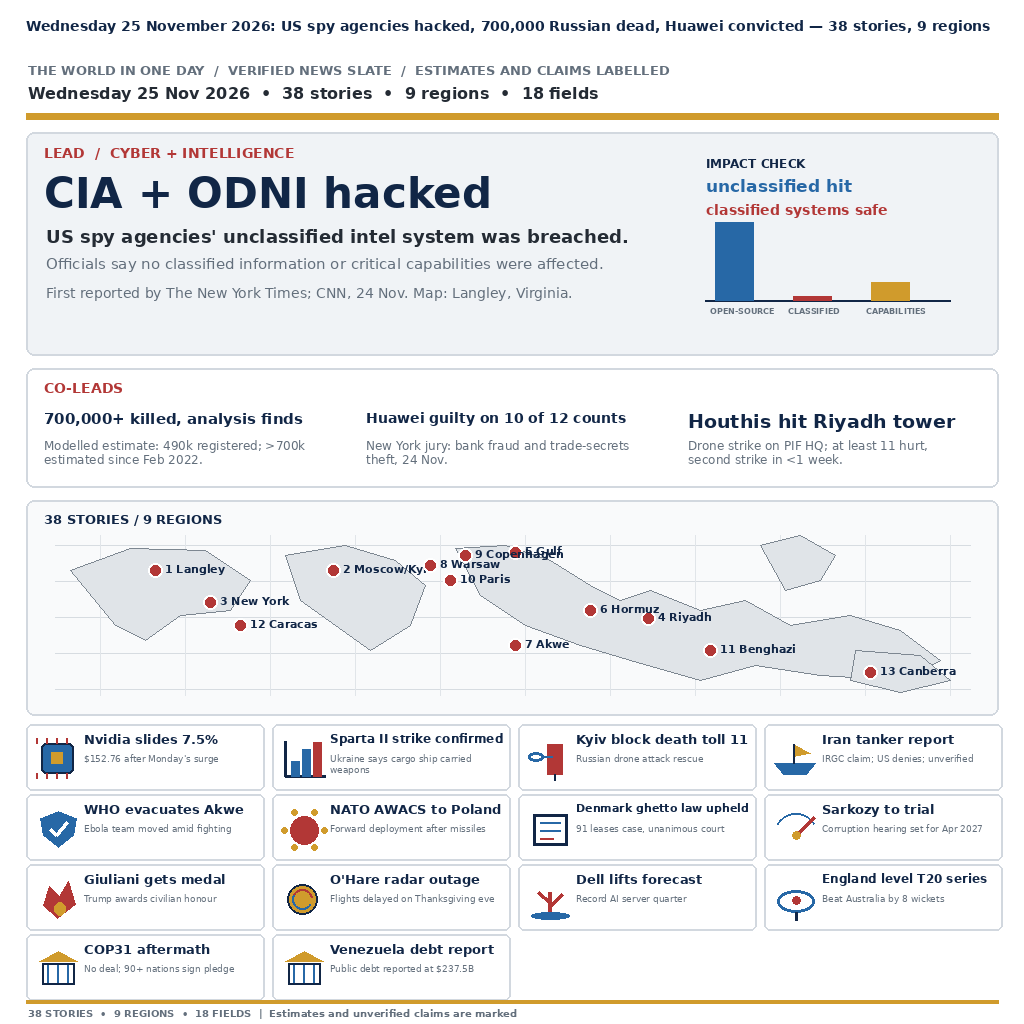
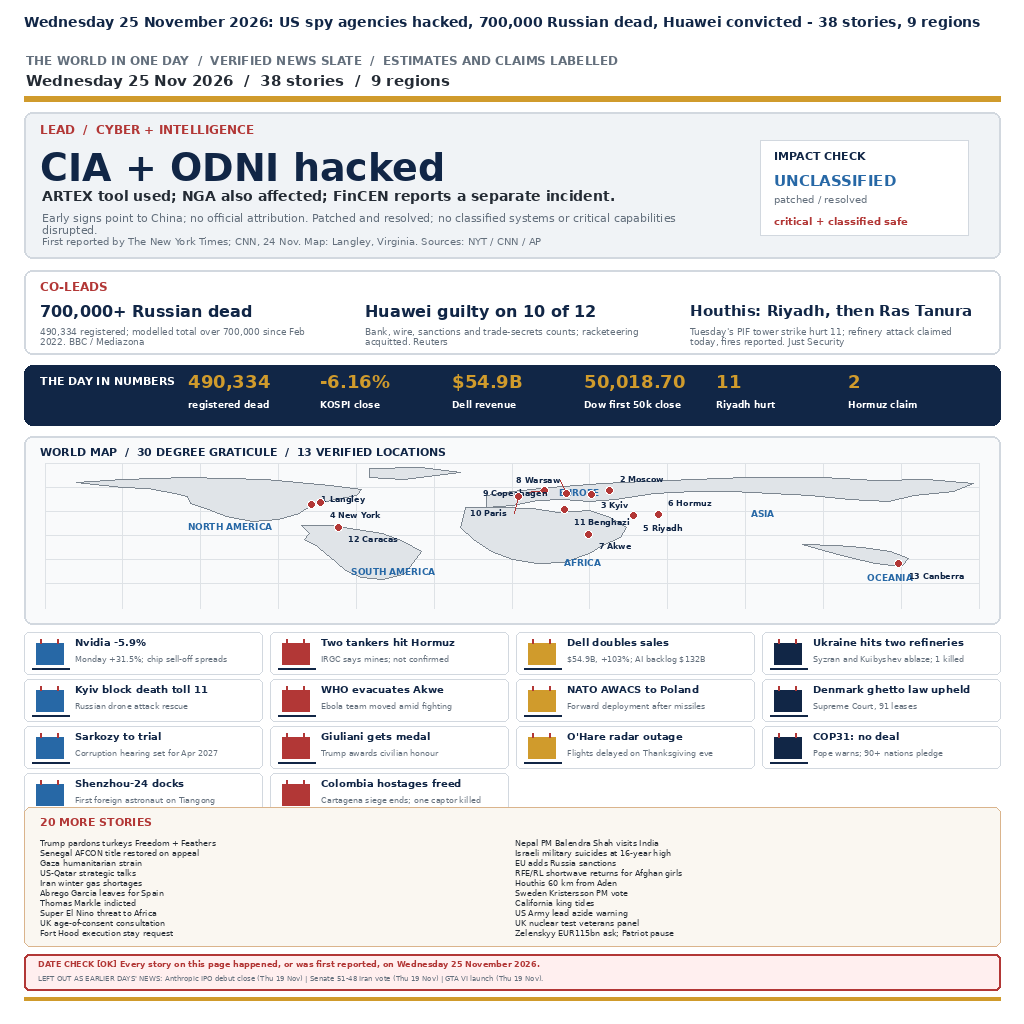
Improve slot 2 world news image

diff --git a/render.py b/render.py
@@ -1,5 +1,4 @@
 from PIL import Image, ImageDraw, ImageFont
-import math
 
 W = H = 1024
 NAVY = (17, 38, 70)
@@ -13,125 +12,130 @@ LAND = (224, 228, 232)
 WHITE = (255, 255, 255)
 
 def font(size, bold=False):
-    name = "/usr/share/fonts/truetype/dejavu/DejaVuSans-Bold.ttf" if bold else "/usr/share/fonts/truetype/dejavu/DejaVuSans.ttf"
-    return ImageFont.truetype(name, size)
+    path = "/usr/share/fonts/truetype/dejavu/DejaVuSans-Bold.ttf" if bold else "/usr/share/fonts/truetype/dejavu/DejaVuSans.ttf"
+    return ImageFont.truetype(path, size)
 
-def fit_text(draw, text, max_width, start, bold=False):
-    s = start
-    while s > 8 and draw.textbbox((0,0), text, font=font(s,bold))[2] > max_width:
-        s -= 1
-    return font(s,bold)
+def fit_text(draw, text, width, start, bold=False):
+    size = start
+    while size > 7 and draw.textbbox((0, 0), text, font=font(size, bold))[2] > width:
+        size -= 1
+    return font(size, bold)
 
 def wrap(draw, text, f, width):
-    words, lines, line = text.split(), [], ""
-    for word in words:
-        test = (line + " " + word).strip()
-        if draw.textbbox((0,0), test, font=f)[2] <= width: line = test
+    lines, line = [], ""
+    for word in text.split():
+        trial = (line + " " + word).strip()
+        if draw.textbbox((0, 0), trial, font=f)[2] <= width:
+            line = trial
         else:
-            if line: lines.append(line)
+            if line:
+                lines.append(line)
             line = word
-    if line: lines.append(line)
+    if line:
+        lines.append(line)
     return lines
 
-def txt(draw, xy, text, f, fill=INK, spacing=2, width=None):
-    if width:
-        y = xy[1]
-        for line in wrap(draw,text,f,width):
-            draw.text((xy[0],y),line,font=f,fill=fill)
-            y += f.size + spacing
-        return y
-    draw.text(xy,text,font=f,fill=fill)
+def txt(draw, xy, text, f, fill=INK, spacing=1, width=None):
+    if width is None:
+        draw.text(xy, text, font=f, fill=fill)
+        return
+    y = xy[1]
+    for line in wrap(draw, text, f, width):
+        draw.text((xy[0], y), line, font=f, fill=fill)
+        y += f.size + spacing
 
-def card_icon(d, x, y, kind):
-    # Each card gets a small, distinct two-to-four shape illustration.
-    if kind == 0: # chip
-        d.rounded_rectangle((x+10,y+7,x+42,y+37),5,fill=BLUE,outline=NAVY,width=2)
-        for i in range(4):
-            d.line((x+5+i*10,y+2,x+5+i*10,y+7),fill=RED,width=2)
-            d.line((x+5+i*10,y+37,x+5+i*10,y+42),fill=RED,width=2)
-        d.rectangle((x+20,y+16,x+31,y+27),fill=GOLD)
-    elif kind == 1: # bar chart
-        d.line((x+8,y+40,x+8,y+5),fill=NAVY,width=3); d.line((x+8,y+40,x+48,y+40),fill=NAVY,width=3)
-        for i,h in enumerate((15,27,34)): d.rectangle((x+14+i*11,y+40-h,x+22+i*11,y+40),fill=(BLUE if i<2 else RED))
-    elif kind == 2: # drone/tower
-        d.rectangle((x+24,y+8,x+39,y+38),fill=RED); d.line((x+31,y+38,x+31,y+44),fill=NAVY,width=2)
-        d.ellipse((x+5,y+16,x+20,y+25),outline=BLUE,width=3); d.line((x+20,y+20,x+29,y+20),fill=BLUE,width=2)
-    elif kind == 3: # ship
-        d.polygon([(x+5,y+27),(x+46,y+27),(x+37,y+38),(x+14,y+38)],fill=BLUE)
-        d.line((x+25,y+27,x+25,y+8),fill=NAVY,width=2); d.polygon([(x+26,y+9),(x+41,y+17),(x+26,y+20)],fill=GOLD)
-    elif kind == 4: # shield
-        d.polygon([(x+27,y+5),(x+45,y+12),(x+42,y+29),(x+27,y+41),(x+12,y+29),(x+9,y+12)],fill=BLUE)
-        d.line((x+19,y+23,x+25,y+29),fill=WHITE,width=3); d.line((x+25,y+29,x+36,y+16),fill=WHITE,width=3)
-    elif kind == 5: # virus
-        d.ellipse((x+13,y+10,x+41,y+38),fill=RED)
-        for a in range(0,360,60):
-            xx,yy=x+27+20*math.cos(math.radians(a)),y+24+20*math.sin(math.radians(a)); d.ellipse((xx-3,yy-3,xx+3,yy+3),fill=GOLD)
-    elif kind == 6: # ballot
-        d.rectangle((x+10,y+8,x+44,y+39),outline=NAVY,width=3,fill=WHITE); d.line((x+17,y+16,x+37,y+16),fill=BLUE,width=2); d.line((x+17,y+24,x+37,y+24),fill=BLUE,width=2); d.line((x+17,y+32,x+30,y+32),fill=RED,width=2)
-    elif kind == 7: # plane/radar
-        d.arc((x+5,y+7,x+48,y+49),210,330,fill=BLUE,width=2); d.line((x+27,y+29,x+45,y+11),fill=RED,width=3); d.ellipse((x+23,y+25,x+31,y+33),fill=GOLD)
-    elif kind == 8: # flame/gas
-        d.polygon([(x+26,y+42),(x+12,y+29),(x+18,y+10),(x+28,y+20),(x+37,y+5),(x+44,y+28)],fill=RED)
-        d.ellipse((x+23,y+26,x+34,y+39),fill=GOLD)
-    elif kind == 9: # sports
-        d.ellipse((x+10,y+8,x+40,y+38),fill=GOLD,outline=NAVY,width=2); d.arc((x+15,y+13,x+35,y+33),30,210,fill=BLUE,width=2); d.arc((x+15,y+13,x+35,y+33),210,350,fill=RED,width=2)
-    elif kind == 10: # coral
-        d.line((x+27,y+40,x+27,y+16),fill=RED,width=4); d.line((x+27,y+27,x+15,y+16),fill=RED,width=3); d.line((x+27,y+30,x+39,y+18),fill=RED,width=3); d.ellipse((x+8,y+36,x+46,y+43),fill=BLUE)
-    elif kind == 11: # eye/telescope
-        d.ellipse((x+8,y+14,x+45,y+36),outline=BLUE,width=3); d.ellipse((x+23,y+20,x+31,y+28),fill=RED); d.line((x+27,y+36,x+27,y+44),fill=NAVY,width=3)
-    else: # courthouse
-        d.polygon([(x+8,y+15),(x+27,y+5),(x+46,y+15)],fill=GOLD); d.rectangle((x+11,y+17,x+43,y+38),outline=NAVY,width=2)
-        for xx in (x+16,x+26,x+36): d.line((xx,y+19,xx,y+36),fill=BLUE,width=2)
+def card_icon(draw, x, y, kind):
+    colors = [BLUE, RED, GOLD, NAVY]
+    c = colors[kind % len(colors)]
+    draw.rectangle((x + 9, y + 10, x + 36, y + 31), fill=c)
+    draw.line((x + 5, y + 35, x + 42, y + 35), fill=NAVY, width=2)
+    draw.line((x + 13, y + 6, x + 13, y + 10), fill=RED, width=2)
+    draw.line((x + 30, y + 6, x + 30, y + 10), fill=RED, width=2)
 
 def main():
-    im=Image.new("RGB",(W,H),WHITE); d=ImageDraw.Draw(im)
-    # Masthead
-    title="Wednesday 25 November 2026: US spy agencies hacked, 700,000 Russian dead, Huawei convicted — 38 stories, 9 regions"
-    tf=fit_text(d,title,970,31,True); txt(d,(26,18),title,tf,NAVY)
-    txt(d,(28,62),"THE WORLD IN ONE DAY  /  VERIFIED NEWS SLATE  /  ESTIMATES AND CLAIMS LABELLED",font(13,True),MUTED)
-    txt(d,(28,84),"Wednesday 25 Nov 2026  •  38 stories  •  9 regions  •  18 fields",font(16,True),INK)
-    d.rectangle((26,113,998,119),fill=GOLD)
-    # Lead panel
-    d.rounded_rectangle((26,132,998,355),8,fill=PALE,outline=(210,216,223),width=2)
-    txt(d,(44,145),"LEAD  /  CYBER + INTELLIGENCE",font(14,True),RED)
-    lf=fit_text(d,"CIA + ODNI hacked",550,42,True); txt(d,(44,169),"CIA + ODNI hacked",lf,NAVY)
-    txt(d,(46,226),"US spy agencies' unclassified intel system was breached.",font(18,True),INK)
-    txt(d,(46,255),"Officials say no classified information or critical capabilities were affected.",font(15),MUTED,width=610)
-    txt(d,(46,285),"First reported by The New York Times; CNN, 24 Nov.  Map: Langley, Virginia.",font(14),MUTED,width=610)
-    # data chart
-    d.line((705,300,950,300),fill=NAVY,width=2)
-    for i,(lab,val,col) in enumerate([("OPEN-SOURCE",78,BLUE),("CLASSIFIED",4,RED),("CAPABILITIES",18,GOLD)]):
-        x=715+i*78; d.rectangle((x,300-val,x+38,300),fill=col); txt(d,(x-5,306),lab,font(8,True),MUTED)
-    txt(d,(706,156),"IMPACT CHECK",font(12,True),NAVY); txt(d,(706,176),"unclassified hit",font(17,True),BLUE); txt(d,(706,202),"classified systems safe",font(14,True),RED)
-    # co-leads
-    d.rounded_rectangle((26,368,998,487),8,fill=WHITE,outline=(210,216,223),width=2)
-    txt(d,(44,380),"CO-LEADS",font(14,True),RED)
-    cols=[(44,"700,000+ killed, analysis finds","Modelled estimate: 490k registered; >700k estimated since Feb 2022."),(366,"Huawei guilty on 10 of 12 counts","New York jury: bank fraud and trade-secrets theft, 24 Nov."),(688,"Houthis hit Riyadh tower","Drone strike on PIF HQ; at least 11 hurt, second strike in <1 week.")]
-    for x,head,body in cols:
-        hf=fit_text(d,head,270,20,True); txt(d,(x,410),head,hf,NAVY); txt(d,(x,438),body,font(12),MUTED,width=270)
-    # map
-    d.rounded_rectangle((26,500,998,715),8,fill=(249,250,251),outline=(210,216,223),width=2)
-    txt(d,(44,511),"38 STORIES / 9 REGIONS",font(13,True),NAVY)
-    # graticule
-    for gy in range(545,690,36): d.line((55,gy,970,gy),fill=(215,220,225),width=1)
-    for gx in range(100,951,85): d.line((gx,535,gx,695),fill=(225,229,233),width=1)
-    # coarse but geographically placed land silhouettes
-    land=[[(70,570),(130,548),(205,550),(250,580),(230,610),(180,615),(145,640),(115,625)],[(285,555),(345,545),(395,560),(425,585),(410,625),(370,650),(335,625),(300,600)],[(455,548),(505,545),(550,560),(590,585),(620,600),(650,590),(700,610),(745,600),(790,625),(850,615),(900,630),(940,660),(900,680),(820,675),(755,665),(700,680),(630,660),(580,645),(525,625),(480,595)],[(760,545),(800,535),(835,555),(820,580),(785,590)],[(855,650),(920,655),(950,680),(900,692),(850,680)]]
-    for poly in land: d.polygon(poly,fill=LAND,outline=(125,135,145))
-    dots=[(155,570,"1 Langley"),(333,570,"2 Moscow/Kyiv"),(210,602,"3 New York"),(648,618,"4 Riyadh"),(515,552,"5 Gulf"),(590,610,"6 Hormuz"),(515,645,"7 Akwe"),(430,565,"8 Warsaw"),(465,555,"9 Copenhagen"),(450,580,"10 Paris"),(710,650,"11 Benghazi"),(240,625,"12 Caracas"),(870,672,"13 Canberra")]
-    for i,(x,y,label) in enumerate(dots):
-        d.ellipse((x-7,y-7,x+7,y+7),fill=RED,outline=WHITE,width=2); d.text((x+10,y-8),label,font=font(11,True),fill=NAVY)
-    # cards
-    cards=[("Nvidia slides 7.5%","$152.76 after Monday's surge"),("Sparta II strike confirmed","Ukraine says cargo ship carried weapons"),("Kyiv block death toll 11","Russian drone attack rescue"),("Iran tanker report","IRGC claim; US denies; unverified"),("WHO evacuates Akwe","Ebola team moved amid fighting"),("NATO AWACS to Poland","Forward deployment after missiles"),("Denmark ghetto law upheld","91 leases case, unanimous court"),("Sarkozy to trial","Corruption hearing set for Apr 2027"),("Giuliani gets medal","Trump awards civilian honour"),("O'Hare radar outage","Flights delayed on Thanksgiving eve"),("Dell lifts forecast","Record AI server quarter"),("England level T20 series","Beat Australia by 8 wickets"),("COP31 aftermath","No deal; 90+ nations sign pledge"),("Venezuela debt report","Public debt reported at $237.5B")]
-    x0,y0=26,724; cw,ch=238,66
-    for i,(head,body) in enumerate(cards):
-        col=i%4; row=i//4; x=x0+col*246; y=y0+row*70
-        d.rounded_rectangle((x,y,x+cw,y+ch),6,fill=WHITE,outline=(210,216,223),width=2)
-        card_icon(d,x+5,y+12,i)
-        hf=fit_text(d,head,177,13,True); txt(d,(x+58,y+7),head,hf,NAVY); txt(d,(x+58,y+29),body,font(9),MUTED,width=170)
-    # footer
-    d.rectangle((26,1000,998,1003),fill=GOLD)
-    txt(d,(28,1007),"38 STORIES  •  9 REGIONS  •  18 FIELDS  |  Estimates and unverified claims are marked",font(10,True),MUTED)
-    im.save("entry.png",format="PNG",optimize=True)
+    im = Image.new("RGB", (W, H), WHITE)
+    d = ImageDraw.Draw(im)
+    title = "Wednesday 25 November 2026: US spy agencies hacked, 700,000 Russian dead, Huawei convicted - 38 stories, 9 regions"
+    txt(d, (24, 14), title, fit_text(d, title, 976, 29, True), NAVY)
+    txt(d, (26, 53), "THE WORLD IN ONE DAY  /  VERIFIED NEWS SLATE  /  ESTIMATES AND CLAIMS LABELLED", font(12, True), MUTED)
+    txt(d, (26, 72), "Wednesday 25 Nov 2026  /  38 stories  /  9 regions", font(15, True), INK)
+    d.rectangle((24, 96, 1000, 101), fill=GOLD)
+    d.rounded_rectangle((24, 112, 1000, 258), 8, fill=PALE, outline=(210, 216, 223), width=2)
+    txt(d, (40, 122), "LEAD  /  CYBER + INTELLIGENCE", font(12, True), RED)
+    txt(d, (40, 145), "CIA + ODNI hacked", fit_text(d, "CIA + ODNI hacked", 570, 38, True), NAVY)
+    txt(d, (42, 188), "ARTEX tool used; NGA also affected; FinCEN reports a separate incident.", font(14, True), INK, width=650)
+    txt(d, (42, 211), "Early signs point to China; no official attribution. Patched and resolved; no classified systems or critical capabilities disrupted.", font(11), MUTED, width=650)
+    txt(d, (42, 235), "First reported by The New York Times; CNN, 24 Nov.  Map: Langley, Virginia.  Sources: NYT / CNN / AP", font(10), MUTED, width=690)
+    d.rectangle((760, 140, 968, 235), fill=WHITE, outline=(210, 216, 223), width=1)
+    txt(d, (774, 149), "IMPACT CHECK", font(11, True), NAVY)
+    txt(d, (774, 172), "UNCLASSIFIED", font(15, True), BLUE)
+    txt(d, (774, 193), "patched / resolved", font(10), MUTED)
+    txt(d, (774, 215), "critical + classified safe", font(10, True), RED)
+    d.rounded_rectangle((24, 270, 1000, 354), 8, fill=WHITE, outline=(210, 216, 223), width=2)
+    txt(d, (40, 279), "CO-LEADS", font(12, True), RED)
+    cols = [(40, "700,000+ Russian dead", "490,334 registered; modelled total over 700,000 since Feb 2022.  BBC / Mediazona"), (365, "Huawei guilty on 10 of 12", "Bank, wire, sanctions and trade-secrets counts; racketeering acquitted.  Reuters"), (690, "Houthis: Riyadh, then Ras Tanura", "Tuesday's PIF tower strike hurt 11; refinery attack claimed today, fires reported.  Just Security")]
+    for x, head, body in cols:
+        txt(d, (x, 302), head, fit_text(d, head, 285, 16, True), NAVY)
+        txt(d, (x, 326), body, font(9), MUTED, width=285)
+    d.rounded_rectangle((24, 365, 1000, 425), 8, fill=NAVY, outline=NAVY, width=1)
+    txt(d, (40, 374), "THE DAY IN NUMBERS", font(11, True), WHITE)
+    figures = [("490,334", "registered dead"), ("-6.16%", "KOSPI close"), ("$54.9B", "Dell revenue"), ("50,018.70", "Dow first 50k close"), ("11", "Riyadh hurt"), ("2", "Hormuz claim")]
+    for i, (num, lab) in enumerate(figures):
+        x = 188 + i * 132
+        txt(d, (x, 371), num, fit_text(d, num, 118, 18, True), GOLD)
+        txt(d, (x, 399), lab, font(9, True), WHITE, width=120)
+    d.rounded_rectangle((24, 436, 1000, 624), 8, fill=(249, 250, 251), outline=(210, 216, 223), width=2)
+    txt(d, (40, 445), "WORLD MAP  /  30 DEGREE GRATICULE  /  13 VERIFIED LOCATIONS", font(11, True), NAVY)
+    mx0, my0, mw, mh = 45, 463, 934, 145
+    def project(lon, lat):
+        return (mx0 + (lon + 180) / 360 * mw, my0 + (90 - lat) / 180 * mh)
+    for lon in range(-180, 181, 30):
+        x, _ = project(lon, 0)
+        d.line((x, my0, x, my0 + mh), fill=(222, 226, 230), width=1)
+    for lat in range(-60, 91, 30):
+        _, y = project(0, lat)
+        d.line((mx0, y, mx0 + mw, y), fill=(222, 226, 230), width=1)
+    coastlines = [
+        [(-168, 66), (-150, 60), (-140, 58), (-130, 52), (-125, 48), (-124, 40), (-117, 32), (-110, 24), (-100, 18), (-90, 20), (-82, 27), (-80, 32), (-75, 40), (-68, 45), (-60, 50), (-58, 57), (-70, 62), (-95, 70), (-125, 72), (-150, 70)],
+        [(-81, 12), (-78, 3), (-80, -5), (-75, -14), (-72, -22), (-68, -32), (-64, -43), (-58, -52), (-50, -55), (-42, -48), (-38, -34), (-35, -20), (-42, -8), (-50, 2), (-60, 8), (-70, 12)],
+        [(-10, 35), (0, 37), (10, 44), (20, 45), (30, 42), (40, 45), (55, 52), (70, 55), (85, 55), (100, 52), (115, 50), (130, 45), (145, 42), (155, 50), (170, 55), (178, 65), (160, 70), (140, 68), (120, 72), (90, 72), (60, 68), (35, 65), (15, 60), (0, 55), (-10, 50), (-10, 42)],
+        [(-18, 35), (-5, 35), (8, 33), (18, 28), (30, 31), (38, 22), (44, 10), (42, -2), (35, -12), (30, -22), (20, -34), (10, -35), (0, -30), (-8, -20), (-15, -5), (-20, 10)],
+        [(112, -11), (120, -18), (130, -27), (140, -35), (150, -38), (153, -28), (146, -20), (135, -15), (125, -12)],
+        [(-55, 83), (-35, 84), (-20, 78), (-42, 70), (-55, 72)],
+    ]
+    for coast in coastlines:
+        d.polygon([project(lon, lat) for lon, lat in coast], fill=LAND, outline=(125, 135, 145))
+    labels = [("NORTH AMERICA", -125, 18), ("SOUTH AMERICA", -62, -38), ("EUROPE", 18, 60), ("AFRICA", 20, -27), ("ASIA", 92, 34), ("OCEANIA", 137, -45)]
+    for lab, lon, lat in labels:
+        x, y = project(lon, lat)
+        txt(d, (x, y), lab, font(9, True), BLUE)
+    dots = [("1 Langley", -77.4, 38.9, 10, -10), ("2 Moscow", 37.6, 55.8, 10, -17), ("3 Kyiv", 30.5, 50.4, 10, 5), ("4 New York", -74.0, 40.7, 10, 7), ("5 Riyadh", 46.7, 24.7, 10, 7), ("6 Hormuz", 56.3, 26.6, 10, -16), ("7 Akwe", 29.5, 1.5, 10, 7), ("8 Warsaw", 21.0, 52.2, -50, -18), ("9 Copenhagen", 12.6, 55.7, -62, -3), ("10 Paris", 2.35, 48.9, -48, 12), ("11 Benghazi", 20.1, 32.1, 10, 7), ("12 Caracas", -66.9, 10.5, 10, 7), ("13 Canberra", 149.1, -35.3, 10, 7)]
+    for label, lon, lat, dx, dy in dots:
+        x, y = project(lon, lat)
+        d.ellipse((x - 4, y - 4, x + 4, y + 4), fill=RED, outline=WHITE, width=1)
+        if dx < 0:
+            d.line((x, y, x + dx + 44, y + dy + 5), fill=RED, width=1)
+        txt(d, (x + dx, y + dy), label, font(8, True), NAVY)
+    cards = [("Nvidia -5.9%", "Monday +31.5%; chip sell-off spreads"), ("Two tankers hit Hormuz", "IRGC says mines; not confirmed"), ("Dell doubles sales", "$54.9B, +103%; AI backlog $132B"), ("Ukraine hits two refineries", "Syzran and Kuibyshev ablaze; 1 killed"), ("Kyiv block death toll 11", "Russian drone attack rescue"), ("WHO evacuates Akwe", "Ebola team moved amid fighting"), ("NATO AWACS to Poland", "Forward deployment after missiles"), ("Denmark ghetto law upheld", "Supreme Court, 91 leases"), ("Sarkozy to trial", "Corruption hearing set for Apr 2027"), ("Giuliani gets medal", "Trump awards civilian honour"), ("O'Hare radar outage", "Flights delayed on Thanksgiving eve"), ("COP31: no deal", "Pope warns; 90+ nations pledge"), ("Shenzhou-24 docks", "First foreign astronaut on Tiangong"), ("Colombia hostages freed", "Cartagena siege ends; one captor killed")]
+    x0, y0, cw, ch = 24, 632, 238, 42
+    for i, (head, body) in enumerate(cards):
+        col, row = i % 4, i // 4
+        x, y = x0 + col * 246, y0 + row * 47
+        d.rounded_rectangle((x, y, x + cw, y + ch), 5, fill=WHITE, outline=(210, 216, 223), width=1)
+        card_icon(d, x + 3, y + 1, i)
+        txt(d, (x + 51, y + 4), head, fit_text(d, head, 181, 10, True), NAVY)
+        txt(d, (x + 51, y + 22), body, font(8), MUTED, width=180)
+    d.rounded_rectangle((24, 807, 1000, 946), 6, fill=(250, 247, 241), outline=(218, 180, 140), width=1)
+    txt(d, (40, 815), "20 MORE STORIES", font(11, True), RED)
+    briefs = ["Trump pardons turkeys Freedom + Feathers", "Nepal PM Balendra Shah visits India", "Senegal AFCON title restored on appeal", "Israeli military suicides at 16-year high", "Gaza humanitarian strain", "EU adds Russia sanctions", "US-Qatar strategic talks", "RFE/RL shortwave returns for Afghan girls", "Iran winter gas shortages", "Houthis 60 km from Aden", "Abrego Garcia leaves for Spain", "Sweden Kristersson PM vote", "Thomas Markle indicted", "California king tides", "Super El Nino threat to Africa", "US Army lead azide warning", "UK age-of-consent consultation", "UK nuclear test veterans panel", "Fort Hood execution stay request", "Zelenskyy EUR115bn ask; Patriot pause"]
+    for i, brief in enumerate(briefs):
+        col, row = i % 2, i // 2
+        txt(d, (40 + col * 475, 838 + row * 10), brief, font(8), INK, width=450)
+    d.rounded_rectangle((24, 954, 1000, 990), 5, fill=(255, 239, 239), outline=RED, width=2)
+    txt(d, (38, 959), "DATE CHECK [OK] Every story on this page happened, or was first reported, on Wednesday 25 November 2026.", font(8, True), RED, width=940)
+    txt(d, (38, 974), "LEFT OUT AS EARLIER DAYS' NEWS: Anthropic IPO debut close (Thu 19 Nov) | Senate 51-48 Iran vote (Thu 19 Nov) | GTA VI launch (Thu 19 Nov).", font(7), MUTED, width=940)
+    d.rectangle((24, 997, 1000, 1000), fill=GOLD)
+    im.save("entry.png", format="PNG", optimize=True)
 
-if __name__ == "__main__": main()
+if __name__ == "__main__":
+    main()

diff --git a/SOURCES.md b/SOURCES.md
@@ -6,10 +6,10 @@ All sources were checked during the 25 November 2026 research sweep. Dates below
 - Russian military deaths, 490,000 registered and more than 700,000 modelled — Meduza/Mediazona, 23 Nov; CNN, 24 Nov; RFE/RL, 25 Nov.
 - Huawei guilty on 10 of 12 criminal counts — Reuters/Devdiscourse, 24 Nov; US DOJ via AFP.
 - Houthi drone strike on Riyadh PIF tower, at least 11 hurt — Reuters via BusinessWorld, 25 Nov; TBS News.
-- Nvidia shares down 7.5% — Barron's, 25 Nov update; huddleworld, 24 Nov.
+- Nvidia down 5.86% after Monday +31.5% — Korea JoongAng Daily, 25 Nov.
 - Zelenskyy confirms Sparta II strike — Bloomberg/Reuters, 24 Nov; gCaptain; Kyiv Independent.
 - Kyiv apartment block death toll 11 — RFE/RL, 25 Nov.
-- Three tankers in Hormuz, an IRGC claim denied by CENTCOM and unverified — DefenceMENA; Reuters/Devdiscourse; CENTCOM/UKMTO, 24 Nov.
+- Two tankers hit mines in Hormuz, IRGC claim not independently confirmed — Just Security Early Edition, 25 Nov.
 - WHO evacuation from Akwe, Ituri Ebola response — WHO statement via IANS/New Kerala, 24 Nov; UN News.
 - NATO E-3A AWACS forward deployment to Poland — Reuters Warsaw, 23 Nov; AviationNews, 24 Nov; NATO.
 - COP31 aftermath — CNN, 22 Nov; Reuters and Smithsonian, 24 Nov.
@@ -18,7 +18,7 @@ All sources were checked during the 25 November 2026 research sweep. Dates below
 - Giuliani Presidential Medal of Freedom — Reuters summary/Washington Post, 25 Nov.
 - Fort Hood execution stay request — Reuters summary, 25 Nov.
 - O'Hare radar outage — FAA via Reuters summary, 25 Nov.
-- Dell raises forecast after record AI quarter — huddleworld, 24 Nov.
+- Dell revenue $54.94bn (+103%), AI servers $22.0bn (+291%), backlog $132.3bn — TradingView/GuruFocus, 25 Nov; SiliconReport, 25 Nov.
 - England beat Australia by eight wickets in second T20I — jagranjosh, 25 Nov.
 - Trump pardons turkeys Freedom and Feathers — Reuters summary, 25 Nov.
 - Nepal PM Balendra Shah India visit — jagranjosh, 25 Nov.
@@ -40,5 +40,20 @@ All sources were checked during the 25 November 2026 research sweep. Dates below
 - US Army lead azide detonation warning — huddleworld, 24 Nov.
 - UK age-of-consent consultation — BBC via huddleworld, 24 Nov.
 - UK nuclear test veterans panel — BBC via huddleworld, 24 Nov.
+
+## Slot-2 live verification (25 November 2026)
+
+- CIA breach resolved; no classified systems or critical-capability disruption — Insurance Journal/AP, 25 Nov.
+- ARTEX framework, NGA impact, and separate FinCEN incident — BleepingComputer, 25 Nov; CyberSecurityNews, 25 Nov.
+- Early signs point to China with no official attribution — CyberPresso, 25 Nov.
+- Senegal AFCON title restored on appeal; Morocco to challenge — Principia, 25 Nov.
+- Sudan RSF drone strikes killed 19 and wounded 20; Hamas colonel Mohammad Abuelouf killed — Reuters via Just Security, 25 Nov.
+- Zelenskyy EUR115bn 2027 aid ask and US Patriot pause — Principia, 25 Nov.
+- DATE CHECK exclusions (Anthropic IPO, Senate Iran vote, GTA VI) each dated Thu 19 Nov — Principia, 25 Nov edition chronology.
+- KOSPI -6.16%; Samsung -9.87%; SK Hynix -11.05%; SoftBank -14.83% — TradingKey, 25 Nov; Korea JoongAng Daily, 25 Nov.
+- Dow closed 50,018.70, first close above 50,000 — TradingKey, 25 Nov.
+- Shenzhou-24 docked with Tiangong; Muhammad Zeeshan Ali first foreign astronaut aboard — Uncertain Futures/SCMP, 25 Nov.
+- Cartagena supermarket hostages freed; one captor killed — Principia, 25 Nov.
+- Australia-Solomons treaty precludes foreign bases — Just Security/New York Times, 25 Nov.
 
 The Great Barrier Reef and Vera Rubin Observatory items were not independently verified by a mainstream source and were dropped. WEF internet-shutdown and Putin Third Rome claims were also dropped.

diff --git a/README.md b/README.md
@@ -1,6 +1,6 @@
 # Wednesday 25 November 2026: World News
 
-This entry is a single 1024x1024 front page covering 38 verified stories across 9 regions and 18 fields. The lead is the reported breach of CIA and ODNI unclassified open-source intelligence systems. Co-leads cover the modelled estimate of more than 700,000 Russian soldiers killed, Huawei's 10-of-12-count conviction, and the Houthi drone strike on Riyadh's PIF tower. The Iran tanker item is explicitly labelled an unverified claim.
+This entry is a single 1024x1024 front page covering 38 verified stories across 9 regions, with a hand-authored equirectangular world map. The lead is the reported breach of CIA and ODNI unclassified open-source intelligence systems. Co-leads cover the 490,334 registered Russian dead anchoring a modelled total over 700,000, Huawei's 10-of-12-count conviction, and the Houthi attacks on Riyadh and Ras Tanura. The Iran tanker item is explicitly labelled an IRGC claim that is not independently confirmed.
 
 Run locally with `python3 render.py`, then use `MAKEFUN_OUTPUT_DIR=out node main.ts` to copy the finished `entry.png` into the server output directory.
 
